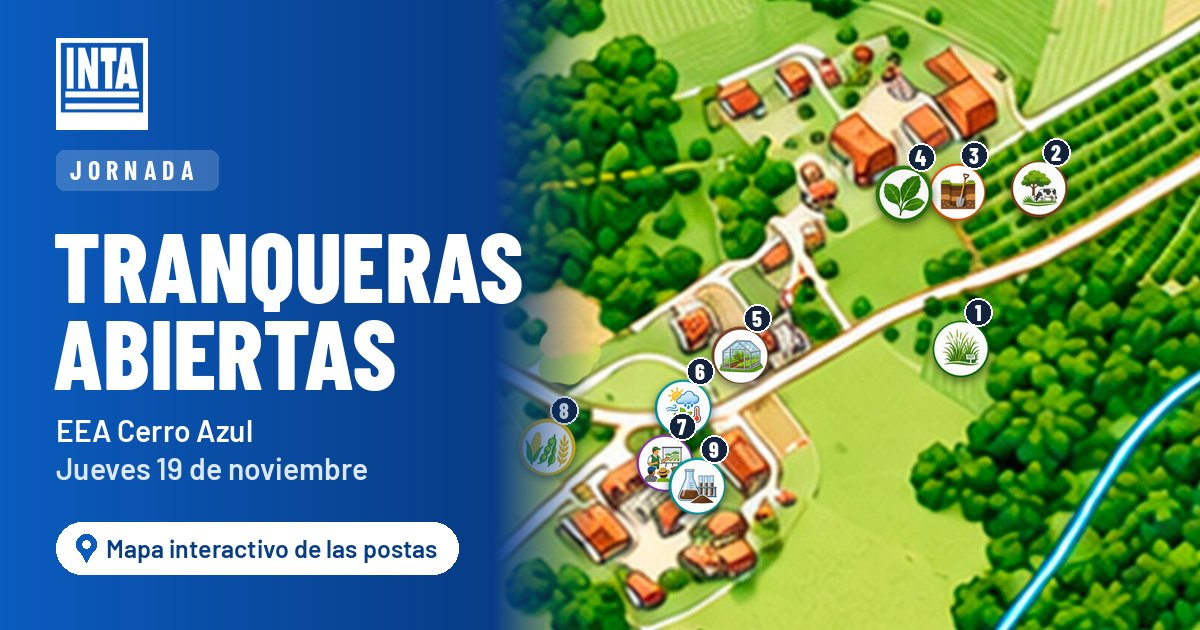
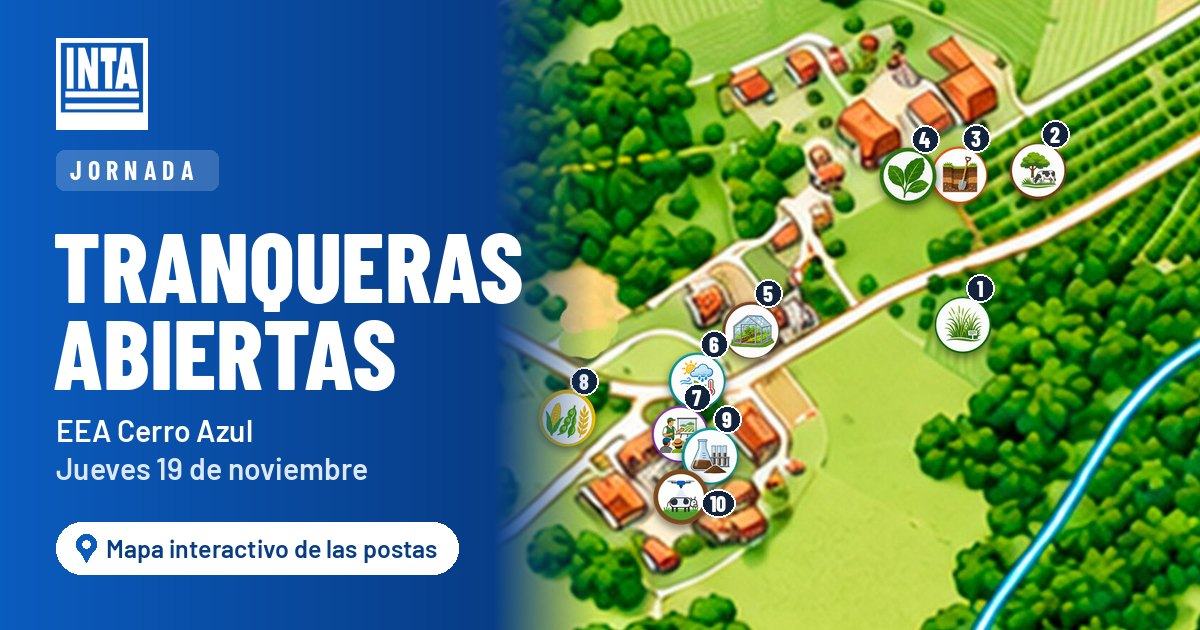
Agrega la posta 10: Innovación y tecnologías aplicadas a la producción ganadera
En el zoom de acreditación (ubicacion_georeferenciadas_zoom.kml), desde
las 13 h, con tres charlas y duración total de unos 45 minutos. Ícono
propio, horario visible en marcador, lista, ficha y pop-up. Los sanitarios
del Edificio Central se corren unos 12 m para no tapar la posta.

Claude-Session: https://claude.ai/code/session_016wRhp6zPhbM9tCn2Es849g

diff --git a/index.html b/index.html
@@ -4,14 +4,14 @@
 <meta charset="utf-8">
 <meta name="viewport" content="width=device-width, initial-scale=1">
 <title>Mapa Tranqueras Abiertas</title>
-<meta name="description" content="Mapa interactivo de la Jornada Tranqueras Abiertas en la EEA INTA Cerro Azul. Jueves 19 de noviembre. Encontrá las 9 postas, los sanitarios y tu ubicación.">
+<meta name="description" content="Mapa interactivo de la Jornada Tranqueras Abiertas en la EEA INTA Cerro Azul. Jueves 19 de noviembre. Encontrá las 10 postas, los sanitarios y tu ubicación.">
 <meta name="theme-color" content="#0b5cbf">
 <!-- Vista previa al compartir el link (WhatsApp, Facebook, Telegram, etc.) -->
 <meta property="og:type" content="website">
 <meta property="og:locale" content="es_AR">
 <meta property="og:site_name" content="INTA Cerro Azul">
 <meta property="og:title" content="Jornada Tranqueras Abiertas · EEA INTA Cerro Azul">
-<meta property="og:description" content="Jueves 19 de noviembre. Mapa interactivo con las 9 postas del recorrido, sanitarios y tu ubicación en el predio.">
+<meta property="og:description" content="Jueves 19 de noviembre. Mapa interactivo con las 10 postas del recorrido, sanitarios y tu ubicación en el predio.">
 <meta property="og:url" content="https://ferchugit.github.io/tranquerasabiertas/">
 <meta property="og:image" content="https://ferchugit.github.io/tranquerasabiertas/img/compartir.jpg">
 <meta property="og:image:secure_url" content="https://ferchugit.github.io/tranquerasabiertas/img/compartir.jpg">
@@ -140,6 +140,13 @@ body{-webkit-touch-callout:none}
 .hoja-nav{display:flex;justify-content:space-between;gap:10px;margin-top:14px;padding-top:12px;border-top:1px solid var(--linea)}
 .hoja-nav button{min-height:44px;padding:0 16px;border-radius:999px;background:var(--celeste);color:var(--azul-hondo);font-weight:600;font-size:15px}
 .hoja-nav button:active{background:#cfe1f8}
+.pin .hora{position:absolute;left:50%;bottom:-15px;transform:translateX(-50%);background:#c62828;color:#fff;border:1.5px solid #fff;border-radius:7px;
+  font-family:var(--display);font-weight:800;font-size:12px;line-height:1;padding:2px 5px 3px;white-space:nowrap}
+.chip .chip-hora{background:#c62828;color:#fff;border-radius:6px;font-size:12px;font-weight:700;padding:2px 6px;margin-left:2px}
+.chip[aria-pressed="true"] .chip-hora{background:#fff;color:#c62828}
+.ficha .aviso-hora{margin:0 0 2px;font-size:14px;font-weight:700;color:#c62828}
+.hoja-cuerpo .hoja-hora{margin:14px 0 0;padding:9px 12px;border-radius:10px;background:#fdecea;color:#7f1d1d;font-size:15px;width:fit-content;max-width:100%}
+.hoja-cuerpo .hoja-hora strong{color:#c62828}
 .ficha .vermas{display:inline-block;margin:1px 0 3px;color:var(--azul);font-weight:600;font-size:14px;text-decoration:underline;text-underline-offset:2px;text-align:left}
 @media (min-width:860px){ .hoja{align-items:center} .hoja-caja{border-radius:18px} }
 @media (prefers-reduced-motion:reduce){ .hoja-caja{animation:none} }
@@ -273,7 +280,8 @@ window.MAPA_GEO = window.MAPA_GEO || { puntos: [{"lat": -27.6452418, "lon": -55.
   var W=2400,H=1697;
   document.addEventListener('contextmenu',function(e){e.preventDefault()});
   document.addEventListener('dragstart',function(e){e.preventDefault()});
-  // Coordenadas en píxeles del croquis (img/mapa.jpg), proyectadas desde ubicacion_georeferenciadas_postas.kml
+  // Coordenadas en píxeles del croquis (img/mapa.jpg), proyectadas desde ubicacion_georeferenciadas_postas.kml y _zoom.kml
+  // (los sanitarios del Edificio Central se corren unos 12 m al oeste para no tapar la posta 10)
   var puntos=[
     // Textos: POSTAS_TRANQUERAS_ABIERTAS_DESCRIPCIONES.docx
     {id:'1',n:'1',nombre:'Jardín de introducción de especies',corto:'Jardín de especies',area:'Producción animal',x:1601,y:678,ico:['jardin'],
@@ -300,8 +308,17 @@ window.MAPA_GEO = window.MAPA_GEO || { puntos: [{"lat": -27.6452418, "lon": -55.
       desc:'Conocé las líneas de investigación en mejoramiento genético y evaluación de cultivares de maíz (Bautista INTA), el desarrollo de materiales de soja con resistencia a enfermedades y calidad diferenciada (Doncella INTA-JIRCAS y Misionera INTA-JIRCAS) y estrategias de manejo integrado de la roya asiática. Además, compartiremos las experiencias del Proyecto RAÍCES en conservación de semillas, corredores agroecológicos y mejoramiento genético participativo.'},
     {id:'9',n:'9',nombre:'Laboratorio de suelos: análisis de suelo y sustratos',corto:'Lab. de Suelos',area:'Recursos naturales',temas:['Análisis de suelo','Sustratos'],x:1453,y:755,ico:['lab','sustrato'],
       desc:'Se compartirá información sobre el trabajo que realiza el Laboratorio de Suelos, destacando la importancia de los análisis y las recomendaciones técnicas para mejorar la fertilidad del suelo, optimizar el uso de insumos y promover sistemas productivos más sustentables.\nAdemás, se explicará qué son los sustratos para plantas, cuáles son sus principales funciones y qué propiedades físicas y químicas deben considerarse para su selección y preparación, favoreciendo un adecuado desarrollo de los cultivos.'},
+    {id:'10',n:'10',nombre:'Innovación y tecnologías aplicadas a la producción ganadera',corto:'Ganadería',hora:'Desde las 13 h',
+      temas:['Pasturas megatérmicas','Drones y satélites','Parásitos en ovinos'],x:1436,y:779,ico:['ganaderia'],
+      desc:'Espacio de intercambio técnico con tres charlas breves de 15 minutos, donde se presentarán resultados de experiencias y herramientas aplicadas a la mejora de los sistemas ganaderos.',
+      detalle:[
+        ['1. Productividad de pasturas megatérmicas','Resultados de evaluación de especies forrajeras y su potencial productivo.'],
+        ['2. Drones y satélites aplicados a la ganadería','Uso de tecnologías para evaluar los recursos forrajeros y mejorar la planificación y el manejo ganadero.'],
+        ['3. Control de parásitos en ovinos','Diagnóstico, control y prevención de la generación de resistencia en majadas.']
+      ],
+      duracion:'Duración total: aprox. 45 minutos'},
     {id:'wc-a',wc:true,nombre:'Sanitarios',corto:'Sanitarios (posta 4)',ref:'Cerca de la posta 4, Yerba mate y té.',x:1528,y:604,ico:['wc']},
-    {id:'wc-b',wc:true,nombre:'Sanitarios',corto:'Sanitarios (Edif. Central)',ref:'Junto al Edificio Central, cerca de las postas 7 y 9.',x:1432,y:772,ico:['wc']}
+    {id:'wc-b',wc:true,nombre:'Sanitarios',corto:'Sanitarios (Edif. Central)',ref:'Junto al Edificio Central, cerca de las postas 7, 9 y 10.',x:1413,y:767,ico:['wc']}
   ];
   var postas=puntos.filter(function(p){return !p.wc});
   var banos=puntos.filter(function(p){return p.wc});
@@ -325,6 +342,7 @@ window.MAPA_GEO = window.MAPA_GEO || { puntos: [{"lat": -27.6452418, "lon": -55.
     b.setAttribute('aria-label',(p.wc?p.corto:'Posta '+p.n+': '+p.nombre));
     b.appendChild(img('img/c_'+p.ico[0]+'.png'));
     if(!p.wc) b.appendChild(el('span','num',p.n));
+    if(p.hora) b.appendChild(el('span','hora','13 h'));
     b.addEventListener('click',function(){ if(movido)return; elegir(p.id); if(p.desc) abrirHoja(p); });
     lienzo.appendChild(b);p.pin=b;
 
@@ -332,6 +350,7 @@ window.MAPA_GEO = window.MAPA_GEO || { puntos: [{"lat": -27.6452418, "lon": -55.
     c.appendChild(img('img/c_'+p.ico[0]+'.png'));
     if(!p.wc) c.appendChild(el('b','',p.n));
     c.appendChild(el('span','',p.corto||p.nombre));
+    if(p.hora) c.appendChild(el('span','chip-hora','13 h'));
     c.addEventListener('click',function(){elegir(p.id)});
     tira.appendChild(c);p.chip=c;
   });
@@ -377,7 +396,7 @@ window.MAPA_GEO = window.MAPA_GEO || { puntos: [{"lat": -27.6452418, "lon": -55.
     var ic=el('div','icono'),d=el('div','datos');
     if(!p){
       ic.appendChild(img('img/guia.png','guia'));
-      d.appendChild(el('div','sobre','9 postas para recorrer'));
+      d.appendChild(el('div','sobre',postas.length+' postas para recorrer'));
       d.appendChild(el('h2','','¿A dónde querés ir?'));
       d.appendChild(el('p','nota','Tocá una posta en el mapa o elegila de la lista.'));
       ficha.appendChild(ic);ficha.appendChild(d);
@@ -388,6 +407,7 @@ window.MAPA_GEO = window.MAPA_GEO || { puntos: [{"lat": -27.6452418, "lon": -55.
     p.ico.forEach(function(n){ic.appendChild(img('img/p_'+n+'.png'))});
     d.appendChild(el('div','sobre',p.wc?'Servicios':'Posta '+p.n+' de '+postas.length+(p.area?' · '+p.area:'')));
     d.appendChild(el('h2','',p.nombre));
+    if(p.hora) d.appendChild(el('p','aviso-hora','⏰ '+p.hora));
     if(p.temas) d.appendChild(el('p','temas',p.temas.join(' · ')));
     if(p.desc){
       var vm=el('button','vermas','Ver qué se presenta en esta posta');vm.type='button';
@@ -426,6 +446,11 @@ window.MAPA_GEO = window.MAPA_GEO || { puntos: [{"lat": -27.6452418, "lon": -55.
     t.appendChild(el('div','sobre','Posta '+p.n+(p.area?' · '+p.area:'')));
     var h=el('h2','',p.nombre);h.id='hojaTitulo';t.appendChild(h);
     cab.appendChild(ic);cab.appendChild(t);hojaCuerpo.appendChild(cab);
+    if(p.hora){
+      var hh=el('p','hoja-hora');hh.appendChild(el('strong','','⏰ '+p.hora));
+      if(p.duracion) hh.appendChild(document.createTextNode(' · '+p.duracion));
+      hojaCuerpo.appendChild(hh);
+    }
     p.desc.split('\n').forEach(function(t){hojaCuerpo.appendChild(el('p','intro',t))});
     if(p.detalle){
       var dl=el('dl','');
